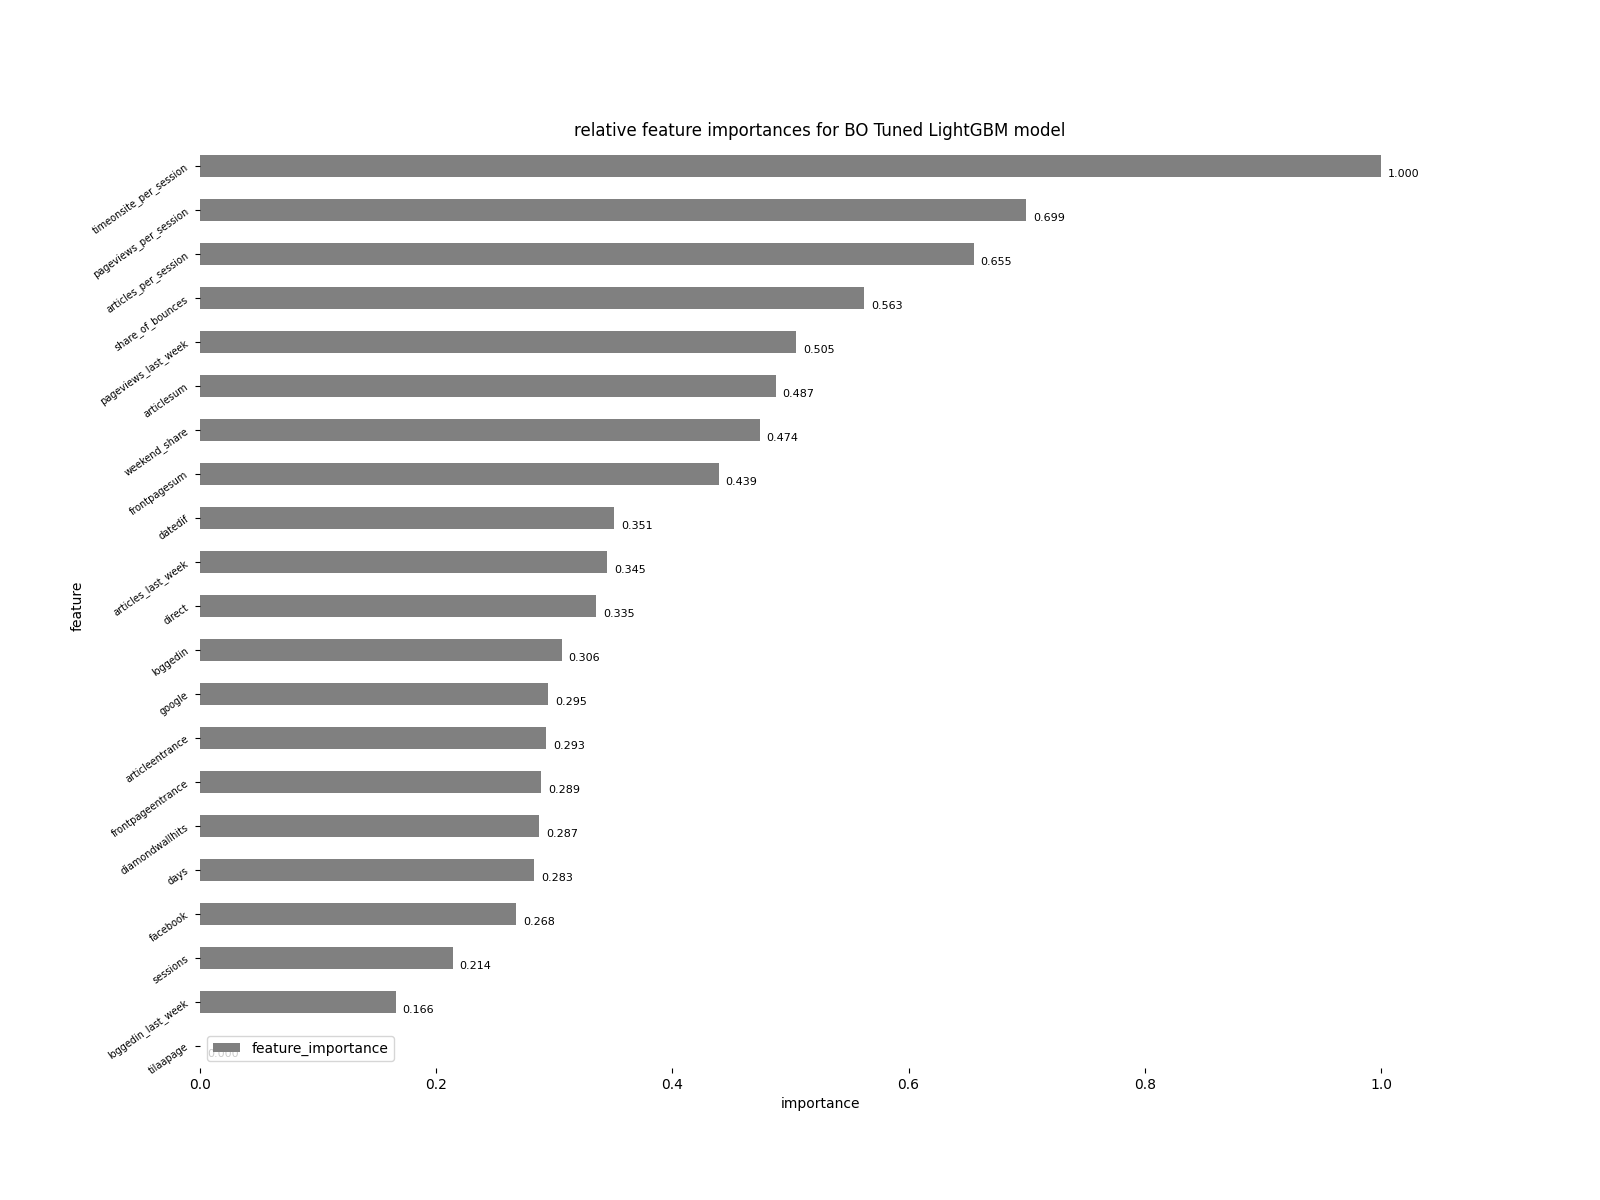
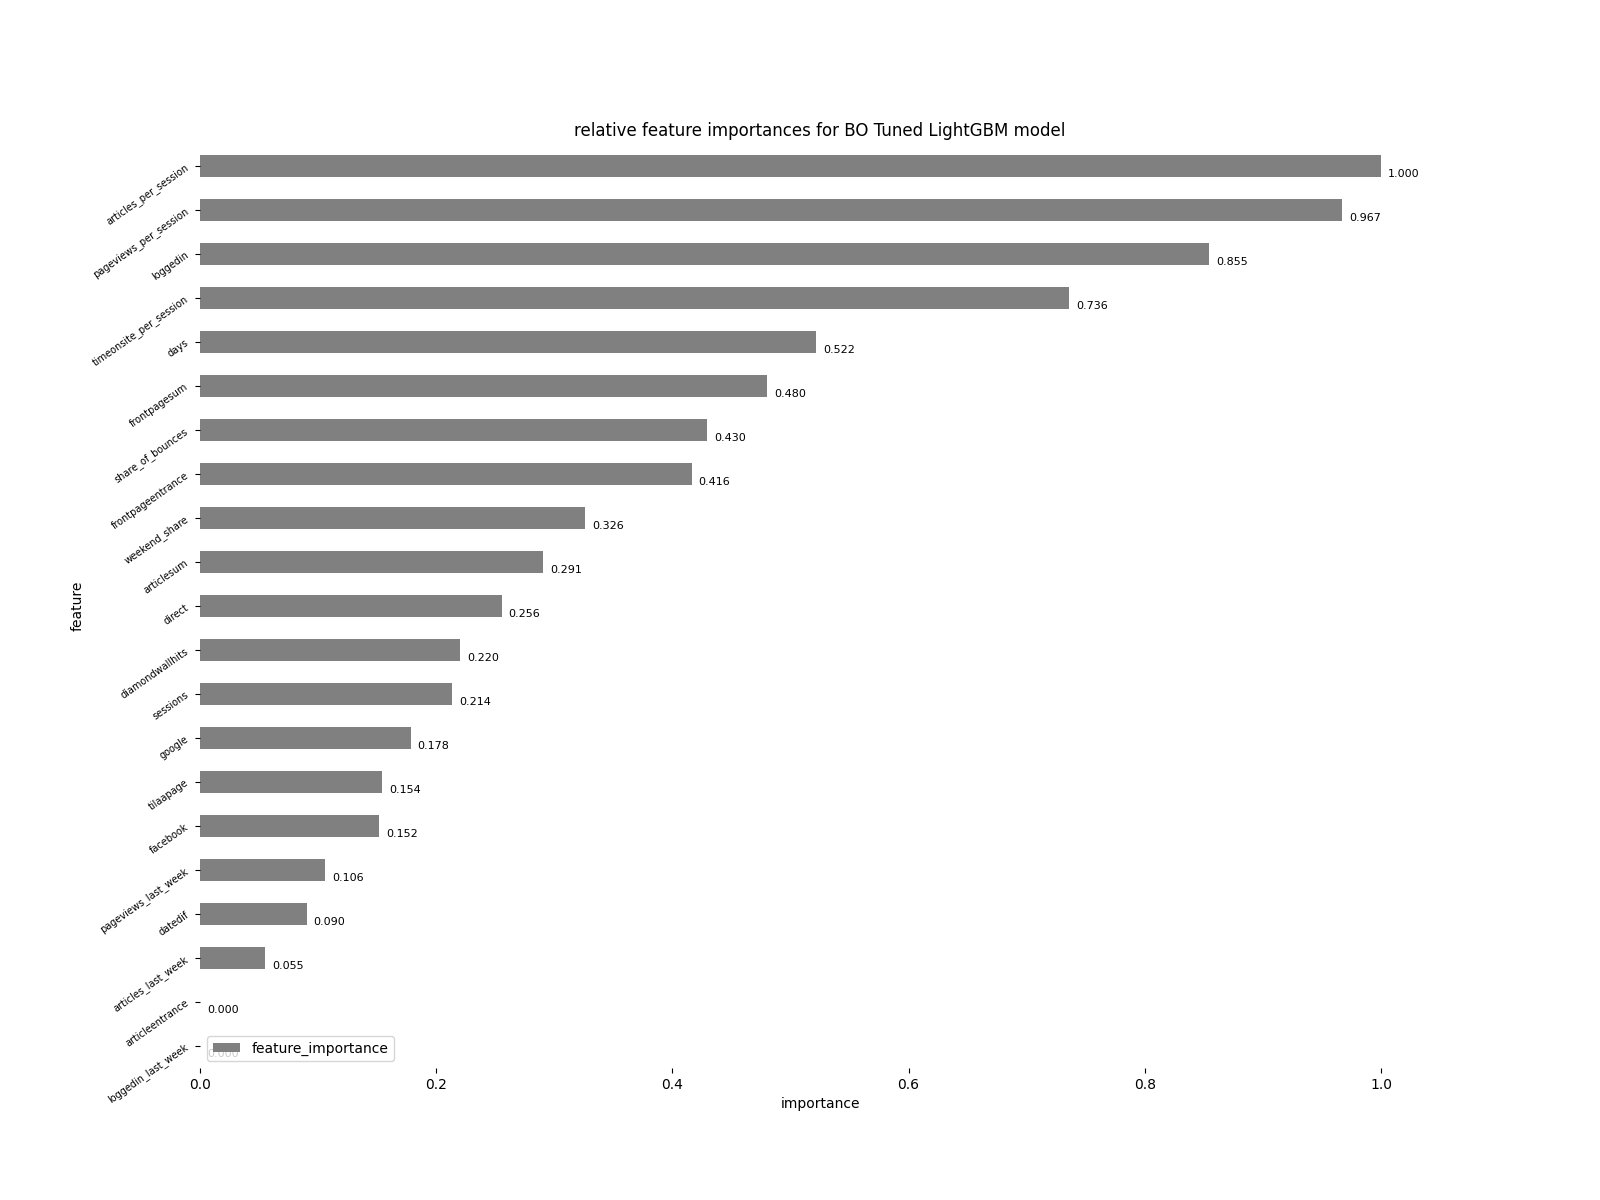
added the score table code, plots

diff --git a/code/testSanomaIzhak.py b/code/testSanomaIzhak.py
@@ -7,6 +7,8 @@ import sys
 sys.path.append('..')
 from config import config
 
+import time
+
 import pprint
 import numpy as np
 import pandas as pd
@@ -114,55 +116,104 @@ print(vif)
 X_train, X_test, y_train, y_test = train_test_split(X, y, train_size=train_size)
 print(X_test.shape)
 
+# SCORES AND MODEL NAME LISTS
+scores = []
+model_names = []
+model_runtimes = []
+
 ##### SIMPLE ORDINARY LEAST SQUARE (OLS) REGRESSION MODEL 
 ##### (NB: OLS REGRESSION DOES NOT PROVIDE BINARY PREDICTION OUTPUT, SO 
 ##### IF PREDICTION IS GREATER THAN .5 IT IS ENCODED AS 1, OTHERWISE 0)
+tic = time.time()    
+
 ols_model = sm.OLS(y_train, sm.add_constant(X_train))
 ols_result = ols_model.fit()
 print(ols_result.summary())
 y_pred_ols = (ols_result.predict(sm.add_constant(X_test)) > 0.5).astype(int)
-print(f'for OLS regression model accuracy is {accuracy_score(y_test, y_pred_ols)*100} percent')
+
+toc = time.time() 
+
+print(f'for OLS regression model accuracy is {accuracy_score(y_test, y_pred_ols)*100} percent')   
+scores.append(accuracy_score(y_test, y_pred_ols)*100)
+model_names.append('Ordinary Least Squares Regression')
+model_runtimes.append(toc-tic)
 
 ##### LOGISTIC REGRESSION
+tic = time.time()    
+
 lr_model = LogisticRegression(max_iter=1000)
 lr_model.fit(X=X_train.values, y=y_train.values)
+
+toc = time.time()
+
 print(f'for OLS regression model accuracy is {accuracy_score(y_test, lr_model.predict(X_test))*100} percent')
+scores.append(accuracy_score(y_test, lr_model.predict(X_test))*100)
+model_names.append('Logistic Regression')
+model_runtimes.append(toc-tic)
 
 ##### DEFAULT (UNTUNED) DECISION TREE MODEL
+tic = time.time()    
+
 dt_model = DecisionTreeClassifier()
 dt_model.fit(X=X_train.values, y=y_train.values)
-accuracy_score(y_test, dt_model.predict(X_test))
-fi_plot(X_test, dt_model, 'Decision Tree model')
+
+toc = time.time()
+
+print(f'for Default Decision Tree model accuracy is {accuracy_score(y_test, dt_model.predict(X_test))*100} percent')
+fi_plot(X_test, dt_model, 'Decision Tree model', save=True, plot_name='default_dt_fi')
+scores.append(accuracy_score(y_test, dt_model.predict(X_test))*100)
+model_names.append('Default Decision Tree Classifier')
+model_runtimes.append(toc-tic)
 
 ##### DEFAULT RANDOM FOREST MODEL
 rf_params = dict(n_jobs=n_jobs, 
                 random_state=42)
+
+tic = time.time()    
 rf_model = RandomForestClassifier(**rf_params)
 rf_model.fit(X=X_train.values, y=y_train.values)
-accuracy_score(y_test, rf_model.predict(X_test))
+
+toc = time.time()
+
 print(f'for Random Forest model accuracy is {accuracy_score(y_test, rf_model.predict(X_test))*100} percent')
-fi_plot(X_test, rf_model, 'Random Forest model')
+fi_plot(X_test, rf_model, 'Random Forest model', save=True, plot_name='default_rf_fi')
+scores.append(accuracy_score(y_test, rf_model.predict(X_test))*100)
+model_names.append('Default Random Forest Classifier')
+model_runtimes.append(toc-tic)
 
 ##### DEFAULT XGBOOST MODEL
 xgboost_params = dict(objective='binary:logistic',
                         seed=42,
                         n_jobs=n_jobs)
+tic = time.time()                 
 
 xgboost_model = XGBClassifier(**xgboost_params)
 xgboost_model.fit(X=X_train.values, y=y_train.values)
-accuracy_score(y_test, xgboost_model.predict(X_test))
+
+toc = time.time()  
+
 print(f'for XGBoost model accuracy is {accuracy_score(y_test, xgboost_model.predict(X_test))*100} percent')
-fi_plot(X_test, xgboost_model, 'XGBoost model')
+fi_plot(X_test, xgboost_model, 'XGBoost model', save=True, plot_name='default_xgboost_fi')
+scores.append(accuracy_score(y_test, xgboost_model.predict(X_test))*100)
+model_names.append('Default XGBoost Classifier')
+model_runtimes.append(toc-tic)
 
 ##### DEFAULT LGBM MODEL
 lgbm_params = dict(verbosity=-1,
                     nthread=-1, 
                     random_state=42)
 
+tic = time.time()  
 lgbm_model = LGBMClassifier(**lgbm_params)
 lgbm_model.fit(X=X_train.values, y=y_train.values)
+
+toc = time.time() 
+
 print(f'for LightGBM model accuracy is {accuracy_score(y_test, lgbm_model.predict(X_test))*100} percent')
 fi_plot(X_test, lgbm_model, 'LightGBM model', save=True, plot_name='default_lgbm_fi')
+scores.append(accuracy_score(y_test, lgbm_model.predict(X_test))*100)
+model_names.append('Default Light GBM Classifier')
+model_runtimes.append(toc-tic)
 
 ##### GRID SEARCH TUNED DECISION TREE MODEL
 grid_param_dt = {'criterion': ['gini', 'entropy'],
@@ -172,13 +223,24 @@ grid_param_dt = {'criterion': ['gini', 'entropy'],
             'min_samples_split': [.1, .2, .5]
             }
 
+tic = time.time()
+
 grid_dt = GridSearchCV(dt_model, param_grid=grid_param_dt, cv=5, n_jobs=-1, scoring='accuracy')
 grid_dt.fit(X_train, y_train)
 best_dt = grid_dt.best_estimator_
+
+toc = time.time()
+
 print(f'for Tuned Decision Tree model accuracy is {accuracy_score(y_test, best_dt.predict(X_test))*100} percent')
-fi_plot(X_test, best_dt, 'Tuned Decision Tree model')
+fi_plot(X_test, best_dt, 'Tuned Decision Tree model', save=True, plot_name='tuned_dt_fi')
+
+scores.append(accuracy_score(y_test, best_dt.predict(X_test))*100)
+model_names.append('Tuned Decision Tree Classifier')
+model_runtimes.append(toc-tic)
+print(f'Tuned Decision Tree Classifier took {toc - tic} seconds to train')
 
 ##### GRID SEARCH TUNED RANDOM FOREST
+
 grid_param_rf = {'n_estimators': [5, 10, 20, 50, 100],
             'max_depth': [1, 5, 10, 30, 50],
             'max_features': ['auto', 'sqrt'],
@@ -186,12 +248,21 @@ grid_param_rf = {'n_estimators': [5, 10, 20, 50, 100],
             'min_samples_split': [x for x in np.linspace(0.0001, 1, num=4)],
             'bootstrap': [True, False]}
 
+tic = time.time()
+
 grid_rf = GridSearchCV(rf_model, param_grid=grid_param_rf, cv=5, n_jobs=-1, scoring='accuracy')
 grid_rf.fit(X_train, y_train)
 best_rf = grid_rf.best_estimator_
 
-print(f'for Tuned Decision Tree model accuracy is {accuracy_score(y_test, best_dt.predict(X_test))*100} percent')
-fi_plot(X_test, best_dt, 'Tuned Decision Tree model')
+toc = time.time()
+
+print(f'for Tuned Random Forest model accuracy is {accuracy_score(y_test, best_rf.predict(X_test))*100} percent')
+fi_plot(X_test, best_rf, 'Tuned Random Forest model', save=True, plot_name='tuned_rf_fi')
+
+scores.append(accuracy_score(y_test, best_rf.predict(X_test))*100)
+model_names.append('Tuned Random Forest Classifier')
+model_runtimes.append(toc-tic)
+print(f'Tuned Random Forest Classifier took {toc - tic} seconds to train')
 
 ##### BAYESIAN OPTIMIZATION TUNING OF LGBM CLASSIFIER'S HYPERPARAMETERS
 ### PARAMETER SEARCH DIMENSIONS
@@ -209,6 +280,8 @@ def lgbm_objective(params):
 
 bo_lgbm_model = LGBMClassifier(random_state=42, verbosity=-1)
 
+tic = time.time()
+
 trials = Trials()
 model_params = bo_lgbm_model.get_params()
 bo_lgbm_best = fmin(fn=lgbm_objective, space=bo_lgbm_space, algo=tpe.suggest, max_evals=20, trials=trials)
@@ -217,6 +290,18 @@ model_params.update(space_eval(bo_lgbm_space, bo_lgbm_best))
 
 bo_lgbm_best_model = LGBMClassifier(**model_params)
 bo_lgbm_best_model.fit(X=X_train.values, y=y_train.values)
-print(f'for BO Tuned LightGBM model accuracy is {accuracy_score(y_test, bo_lgbm_best_model.predict(X_test))*100} percent')
+
+toc = time.time()
+
+print(f'for BO Tuned LightGBM Classifier accuracy is {accuracy_score(y_test, bo_lgbm_best_model.predict(X_test))*100} percent')
 fi_plot(X_test, bo_lgbm_best_model, 'BO Tuned LightGBM model', save=True, plot_name='bo_tuned_lgbm_fi')
+print(f'BO Tuned LightGBM Classifier took {toc - tic} seconds to train')
+
+scores.append(accuracy_score(y_test, bo_lgbm_best_model.predict(X_test))*100)
+model_names.append('Tuned Light GBM Classifier')
+model_runtimes.append(toc-tic)
+
+score_dict = dict(models=model_names, accuracy_scores=scores, runtime_on_24Gb_RAM_seconds=model_runtimes)
+score_dt = pd.DataFrame(score_dict)
+score_dt.to_csv(OUTPUT_DIR+'model_scores.csv')
 

diff --git a/README.md b/README.md
@@ -1,1 +1,14 @@
 # sanoTest
+
+# TASK 1
+* Using the given data, create a predictive model that can be used to personalize offers.
+* Suggest how the model should be incorporated at the premium article paywall.
+* You can also describe what kind of visitors are more likely to buy a subscription.
+* Report the results and make a proposal on how we should use the model for personalized targeting (approx. 15-20min) for an audience consisting of analysts, marketing experts, and consumer sales management.
+
+# TASK 2
+Now the price of the continuous subscription is 5€ for the first month, and 15€ after the first month. The management would like to know what is the effect of 
+
+an increase in the price of the first month to 5.5 € on the demand for continuous subscriptions 
+a decrease from 15€ to 14€ on the average continuation rates of the following periods
+Your task is to briefly explain what are the key metrics and/or tools you would use in order to give the management the correct answer. Also, briefly describe which kind of data would allow your analysis and how. (max 7 min)
